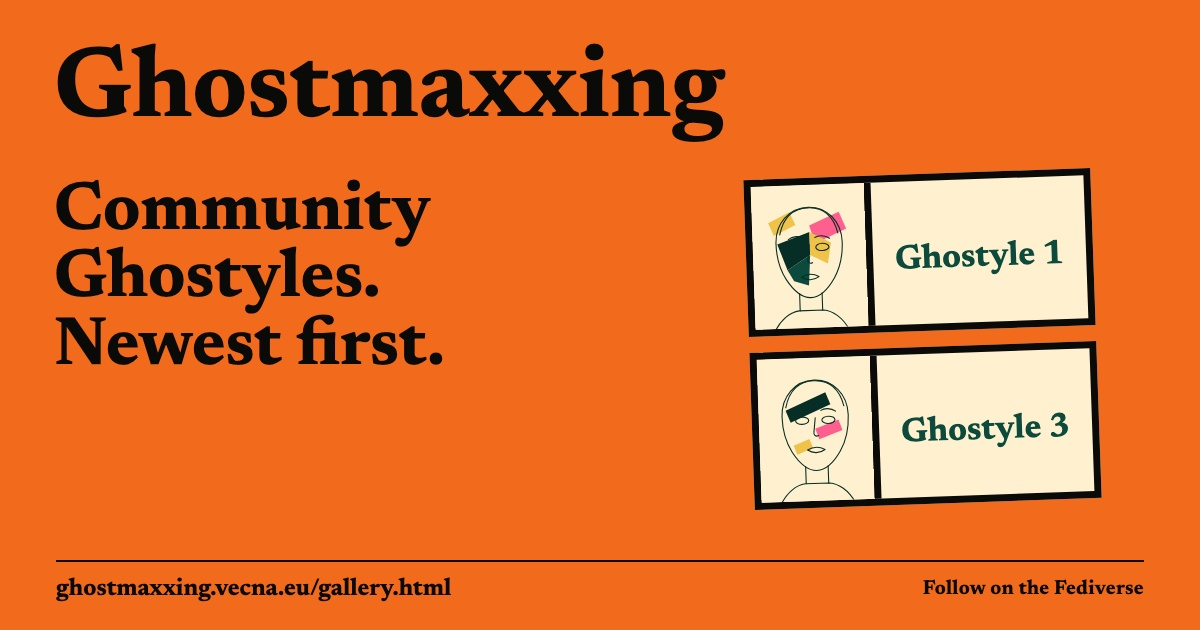
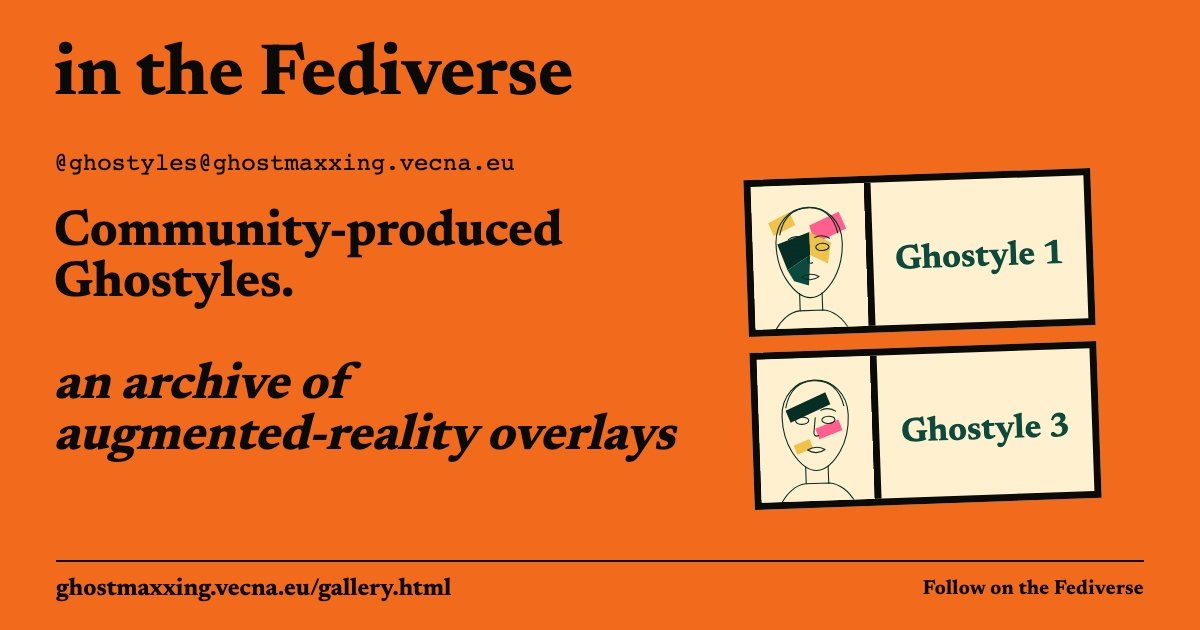
produced square and wide social cards + gallery update

Changed region(s): [[0.0308, 0.2413, 0.4933, 0.6333], [0.0308, 0.0603, 0.6167, 0.2413], [0.0308, 0.6333, 0.5858, 0.754]]

diff --git a/scripts-dev/social-cards.html b/scripts-dev/social-cards.html
@@ -19,7 +19,8 @@ main{display:grid;gap:28px;padding:0 24px 28px;width:max-content}
 .card--canopy .art{right:50px;top:172px;width:400px;height:356px}
 .card--generic .art{right:70px;top:199px;width:345px;height:345px}
 .card--generic .message{font-size:70px;width:690px}
-.card--gallery .message{font-size:68px;width:620px}
+.card--gallery .brand{font-size:72px;line-height:1.05}
+.card--gallery .message{font-size:50px;line-height:1.02;width:660px}
 .card--gallery .art{right:50px;top:174px;width:455px;height:330px;display:grid;gap:16px;transform:rotate(-2deg)}
 .gallery-ghostyle{height:157px;border:7px solid var(--gm-ink);background:var(--gm-cream);display:grid;grid-template-columns:120px 1fr;align-items:center;overflow:hidden}
 .gallery-ghostyle img{width:120px;height:157px;object-fit:cover;display:block;border-right:7px solid var(--gm-ink)}
@@ -27,9 +28,46 @@ main{display:grid;gap:28px;padding:0 24px 28px;width:max-content}
 .footer{position:absolute;left:56px;right:56px;bottom:29px;display:flex;justify-content:space-between;align-items:center;border-top:2px solid var(--gm-ink);padding-top:15px;font:700 20px Newsreader,serif;letter-spacing:.015em}
 .footer .domain{font-size:24px;letter-spacing:0}
 .single{width:1200px;height:630px;overflow:hidden}.single nav{display:none}.single main{padding:0;gap:0}.single .card[hidden]{display:none}
+body[data-variant="square"] .card{width:1200px;height:1200px;padding:56px 64px 48px}
+body[data-variant="square"] .brand{font-size:112px;width:1072px;height:122px}
+body[data-variant="square"] .message{font-size:88px;line-height:1;width:1072px;height:282px;margin-top:48px}
+body[data-variant="square"] .card--generic .message{font-size:82px;width:1072px}
+body[data-variant="square"] .card--gallery .brand{font-size:64px;width:1072px}
+body[data-variant="square"] .card--gallery .message{font-size:64px;line-height:1.02;width:1072px;height:340px;margin-top:28px}
+body[data-variant="square"] .art{left:50%;right:auto;top:548px;width:650px;height:480px;transform:translateX(-50%)}
+body[data-variant="square"] .card--glasses .art{left:50%;right:auto;top:575px;width:790px;height:450px;transform:translateX(-50%) rotate(-10deg)}
+body[data-variant="square"] .card--pole .art{left:50%;right:auto;top:525px;width:550px;height:550px;transform:translateX(-50%)}
+body[data-variant="square"] .card--canopy .art{left:50%;right:auto;top:540px;width:590px;height:525px;transform:translateX(-50%)}
+body[data-variant="square"] .card--generic .art{left:50%;right:auto;top:565px;width:500px;height:500px;transform:translateX(-50%)}
+body[data-variant="square"] .card--gallery .art{left:50%;right:auto;top:620px;width:720px;height:430px;transform:translateX(-50%) rotate(-2deg)}
+body[data-variant="square"] .gallery-ghostyle{height:217px;grid-template-columns:170px 1fr}
+body[data-variant="square"] .gallery-ghostyle img{width:170px;height:217px}
+body[data-variant="square"] .gallery-ghostyle span{font-size:48px;padding:0 30px}
+body[data-variant="square"] .footer{left:64px;right:64px;bottom:38px;padding-top:17px;font-size:22px}
+body[data-variant="square"] .footer .domain{font-size:26px}
+body[data-variant="square"].single{width:1200px;height:1200px}
+
+body[data-variant="wide"] .card{width:1500px;height:500px;padding:28px 80px 26px}
+body[data-variant="wide"] .brand{font-size:76px;line-height:1;width:1340px;height:78px}
+body[data-variant="wide"] .message{font-size:56px;line-height:.96;width:780px;height:170px;margin-top:18px}
+body[data-variant="wide"] .card--generic .message{font-size:52px;width:820px}
+body[data-variant="wide"] .card--gallery .brand{font-size:58px;width:1340px}
+body[data-variant="wide"] .card--gallery .message{font-size:42px;line-height:1;width:780px;height:215px}
+body[data-variant="wide"] .art{right:80px;top:105px;width:520px;height:270px}
+body[data-variant="wide"] .card--glasses .art{right:90px;top:120px;width:560px;height:240px;transform:rotate(-8deg)}
+body[data-variant="wide"] .card--pole .art{right:110px;top:88px;width:320px;height:320px}
+body[data-variant="wide"] .card--canopy .art{right:100px;top:92px;width:355px;height:315px}
+body[data-variant="wide"] .card--generic .art{right:130px;top:105px;width:290px;height:290px}
+body[data-variant="wide"] .card--gallery .art{right:90px;top:98px;width:500px;height:270px;gap:12px;transform:rotate(-2deg)}
+body[data-variant="wide"] .gallery-ghostyle{height:129px;grid-template-columns:105px 1fr;border-width:6px}
+body[data-variant="wide"] .gallery-ghostyle img{width:105px;height:129px;border-right-width:6px}
+body[data-variant="wide"] .gallery-ghostyle span{font-size:32px;padding:0 20px}
+body[data-variant="wide"] .footer{left:80px;right:80px;bottom:19px;padding-top:10px;font-size:18px}
+body[data-variant="wide"] .footer .domain{font-size:21px}
+body[data-variant="wide"].single{width:1500px;height:500px}
 /* SVG artwork is a snapshot of the existing deployed assets. Edit these copies explicitly. */
 </style></head><body>
-<nav aria-label="Card previews"><a href="?">All cards</a><a href="?card=glasses">Glasses</a><a href="?card=pole">Pole camera</a><a href="?card=canopy">Canopy</a><a href="?card=generic">Generic</a><a href="?card=gallery">Gallery</a></nav>
+<nav aria-label="Card previews"><a href="?">All cards</a><a href="?card=glasses">Glasses</a><a href="?card=pole">Pole camera</a><a href="?card=canopy">Canopy</a><a href="?card=generic">Generic</a><a href="?card=gallery">Gallery</a> · <a href="?variant=landscape">Landscape</a><a href="?variant=square">Square</a><a href="?variant=wide">Wide</a></nav>
 <main>
 <article class="card card--glasses" id="card-glasses" aria-label="glasses social card">
 <h1 class="brand">Ghostmaxxing</h1>
@@ -123,8 +161,13 @@ main{display:grid;gap:28px;padding:0 24px 28px;width:max-content}
 <div class="footer"><span class="domain">ghostmaxxing.vecna.eu</span><span>Open-source · Local tests</span></div>
 </article>
 <article class="card card--gallery" id="card-gallery" aria-label="gallery social card">
-<h1 class="brand">Ghostmaxxing</h1>
-<h2 class="message"><span>Community</span><span>Ghostyles.</span><span>Newest first.</span></h2>
+<h2 class="brand">in the Fediverse</h2>
+<code class="gallery-handle" style="font-size:24px;">@ghostyles@ghostmaxxing.vecna.eu</code>
+<p class="message">
+  <span>Community-produced</span><span>Ghostyles.</span>
+  <br />
+  <span style="font-style:italic;">an archive of <br />augmented-reality overlays</span>
+</p>
 <div class="art" aria-hidden="true">
   <span class="gallery-ghostyle"><img src="../images/home/story/ghostyle-1.svg" alt=""><span>Ghostyle 1</span></span>
   <span class="gallery-ghostyle"><img src="../images/home/story/ghostyle-3.svg" alt=""><span>Ghostyle 3</span></span>
@@ -133,7 +176,11 @@ main{display:grid;gap:28px;padding:0 24px 28px;width:max-content}
 </article>
 </main>
 <script>
-const chosen = new URLSearchParams(location.search).get('card');
+const params = new URLSearchParams(location.search);
+const chosen = params.get('card');
+const variant = params.get('variant') || 'landscape';
+if(!['landscape','square','wide'].includes(variant)) {document.body.textContent='Unknown variant';throw new Error('Unknown variant: '+variant);}
+document.body.dataset.variant=variant;
 if(chosen){
  const cards=[...document.querySelectorAll('.card')];
  if(!cards.some(c=>c.id==='card-'+chosen)) {document.body.textContent='Unknown card';throw new Error('Unknown card: '+chosen);}

diff --git a/scripts-dev/README.md b/scripts-dev/README.md
@@ -652,11 +652,12 @@ The three files must already exist, as they do in the inspected repository.
 
 ## Edit and export
 
-Edit `scripts-dev/social-cards.html`. All four cards share the same font family
-and weight. The wordmark is 100px; the main copy is 78px (70px on the longer generic
-card). Artwork positions, sizes, colours and text can be adjusted in that page.
-The illustrations are embedded snapshots; later icon edits elsewhere will not
-change them automatically. Font and stylesheet paths use the existing checkout.
+Edit `scripts-dev/social-cards.html`. All five cards share the same font family
+and weight. Each has a 1200 × 630 landscape layout, a 1200 × 1200 square layout,
+and a 1500 × 500 wide layout with extra horizontal safe space for cropped embeds.
+Artwork positions, sizes, colours and text can be adjusted in that page. The
+illustrations are embedded snapshots; later icon edits elsewhere will not change
+them automatically. Font and stylesheet paths use the existing checkout.
 
 To export element screenshots on your machine:
 
@@ -671,21 +672,21 @@ Optional:
 ```sh
 node scripts-dev/build-social-cards.cjs --only generic
 node scripts-dev/build-social-cards.cjs --format png
+node scripts-dev/build-social-cards.cjs --variants square,wide
 node scripts-dev/build-social-cards.cjs --output /tmp/ghostmaxxing-cards
 ```
 
 The script starts a temporary local server, waits for the self-hosted font,
-checks dimensions and text overflow, and captures each card element. Only selected
-outputs are overwritten. `cards-manifest.json` describes the latest export.
-To preview manually, serve your repository and visit `/scripts-dev/social-cards.html`;
-add `?card=glasses`, `pole`, `canopy`, or `generic` to show one card.
+checks dimensions and text overflow, and captures each card element. By default it
+exports all three layouts. Landscape filenames are unchanged; square and wide files
+use `-square` and `-wide` suffixes. Only selected outputs are overwritten.
+`cards-manifest.json` describes the latest export. To preview manually, serve your
+repository and visit `/scripts-dev/social-cards.html`; add `?card=glasses` to show
+one card and `&variant=square` or `&variant=wide` to select a layout.
 
-Validation: JavaScript syntax and documentation preservation/idempotence were
-checked. The supplied JPEGs were rendered with a local Canvas/SVG renderer using
-the same font, copy and artwork, and visually inspected. They are not Playwright
-screenshots: the available browser's security policy blocked the local page.
-The Playwright export path therefore remains untested here. Browser text rendering
-may differ slightly from these supplied files.
+Validation: JavaScript syntax, output dimensions, font readiness, and text overflow
+are checked during export. The supplied JPEGs were rendered with Playwright and
+visually inspected in all three layouts.
 
 ## Use in link previews
 
@@ -709,3 +710,45 @@ descriptions, canonical URLs and `og:url` values. Replace old image tags rather
 than appending competing entries. Deploy the JPEGs along with the metadata changes.
 Adding these files alone does not switch existing Open Graph tags to the new cards.
 No current public-page HTML is overwritten by this package.
+
+<!-- ghostmaxxing-social-cards:start -->
+## Social cards
+
+Edit `scripts-dev/social-cards.html` to change copy, layout, or the embedded SVG artwork.
+All five cards use the existing Newsreader Bold (700) font and project colour tokens.
+Each card has 1200 × 630 landscape, 1200 × 1200 square, and 1500 × 500 wide
+layouts. Export uses an element screenshot at 1× device scale after fonts load.
+The page is maintainer tooling and has `noindex`.
+
+```sh
+npm ci
+npm run prepare:e2e
+node scripts-dev/build-social-cards.cjs
+node scripts-dev/build-social-cards.cjs --format png
+node scripts-dev/build-social-cards.cjs --only generic
+node scripts-dev/build-social-cards.cjs --variants square,wide
+```
+
+Default output: `images/social/ghostmaxxing-{glasses,pole,canopy,generic,gallery}.jpg`,
+their `-square` and `-wide` variants, plus `images/social/cards-manifest.json`.
+`--format png` exports PNG instead. `--variants` limits the exported layouts.
+`--output /path/to/folder` changes the destination. Existing named output files
+are overwritten. Images of the other format and unselected cards are retained.
+The manifest describes only the most recent selected export.
+
+Preview the layout at `/scripts-dev/social-cards.html` using a local server;
+`?card=generic` shows one card and `?card=generic&variant=wide` selects a layout.
+Export starts its own temporary localhost server, so no separately running server
+is needed. All artwork is embedded in the page; fonts and CSS are loaded from this
+checkout. Nothing is downloaded at export time. Changes to icons elsewhere do not
+automatically update the embedded artwork.
+
+Set each page's `og:image` and `twitter:image` to an absolute HTTPS URL for the
+chosen exported image. Use the selected variant's dimensions, the appropriate MIME
+type, and each page's own canonical URL and `og:url`. The exporter does not rewrite
+public-page metadata. `ghostmaxxing-generic.jpg` is the default general-purpose card.
+
+`--update-docs` refreshes a marked section in this README and in the relevant
+folder descriptions, preserving all text outside those sections. It performs
+only documentation updates and does not launch a browser.
+<!-- ghostmaxxing-social-cards:end -->

diff --git a/images/social/FOLDER-DESCRIPTION.md b/images/social/FOLDER-DESCRIPTION.md
@@ -2,6 +2,10 @@
 
 This folder contains social-profile media that does not fit the root social-card files.
 
-`header-1500x500.png` is the wide social header/banner image shown in the visual specimen page and intended for social profile surfaces. The 1200x630 `ghostmaxxing-generic.jpg` is the shared JPEG preview used by Open Graph and Twitter metadata. The root-level `images/social-card.svg` and `images/social-card-square.svg` are editable SVG artwork sources.
+`header-1500x500.png` is the wide social header/banner image shown in the visual specimen page and intended for social profile surfaces. The `ghostmaxxing-{glasses,pole,canopy,generic,gallery}` JPEGs are generated by `scripts-dev/build-social-cards.cjs`: unsuffixed files are 1200 × 630, `-square` files are 1200 × 1200, and `-wide` files are 1500 × 500. The unsuffixed `ghostmaxxing-generic.jpg` remains the shared Open Graph and Twitter preview. The root-level `images/social-card.svg` and `images/social-card-square.svg` are legacy artwork sources rather than inputs to this generator.
 
 The PNG file is excluded from code2prompt because it is a visual asset. This description keeps the relationship between profile headers and root social-card metadata clear.
+
+<!-- ghostmaxxing-social-cards:start -->
+The `ghostmaxxing-{glasses,pole,canopy,generic,gallery}` JPEG/PNG files are generated social-preview cards. Edit `scripts-dev/social-cards.html`, then run `node scripts-dev/build-social-cards.cjs`. Landscape outputs are 1200 × 630, `-square` outputs are 1200 × 1200, and `-wide` outputs are 1500 × 500; the capture manifest records selected exports. The old root SVG cards are legacy assets, not inputs to this export. Public metadata must be switched to an absolute URL for one of the raster images separately.
+<!-- ghostmaxxing-social-cards:end -->
